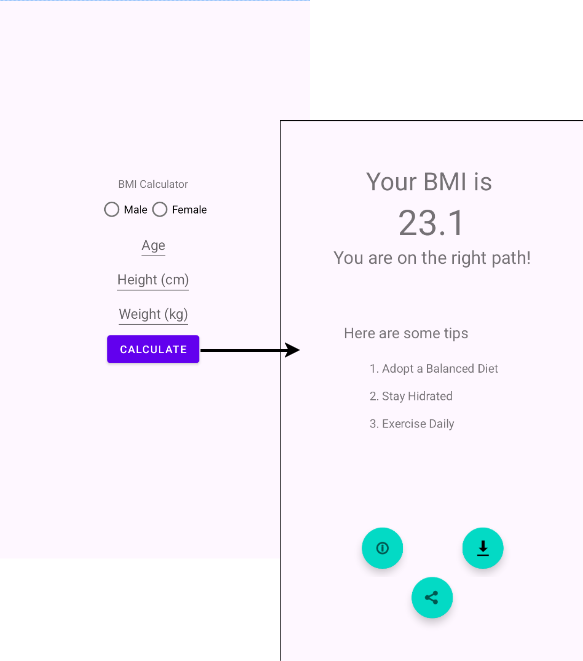
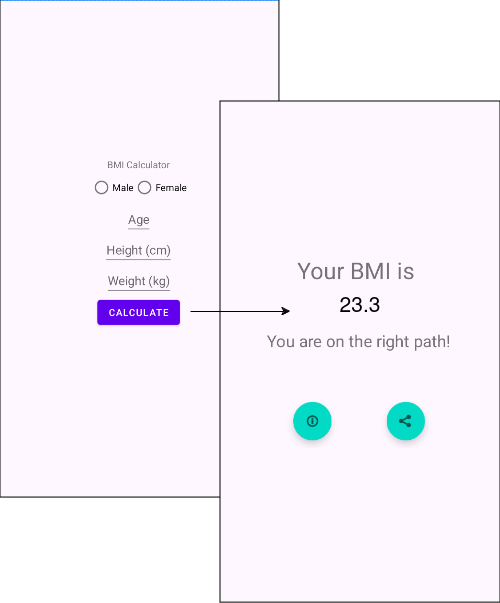
address comments

diff --git a/docs/lab/02/index.md b/docs/lab/02/index.md
@@ -183,27 +183,18 @@ Intent filters based on three aspects:
 Using the initial project structure from [lab01](../01/index.md), add buttons for each of the follwing actions:
 
    In **MainActivity** 
-   1.  Start a new activity which displays the calculated bmi along with some useful tips.  
+   1.  Start a new activity which displays the calculated bmi along with some useful tips. (Calculate button)
    ![alt text](images/activities.png)
     
 
 In  **SecondActivity**
    
-   1. Share results as text to other apps.  
-   2. Redirect the user to webpage about bmi. 
-   :::info
-
-   You need to specify in the manifest file `<queries>`
-
-   :::
-   3. Starts a service that will download the following cheat sheet. 
-
-https://odphp.health.gov/sites/default/files/2021-05/DGA-FactSheet-2021-03-26-compressed.pdf
+   1. Share the BMI result as text to other apps, using an implicit intent. (share button)
+   2. Redirect the user to webpage about bmi.(info button)
 
 :::note
 
-- What type of Intent is used for each of the 4 buttons? (Implicit/Explicit)
-- What type of Action should you use for buttons 1 and 2 from the Second Activity?
+- What type of Intent is used for each of the 3 buttons? (Implicit/Explicit)
 
 :::
 
